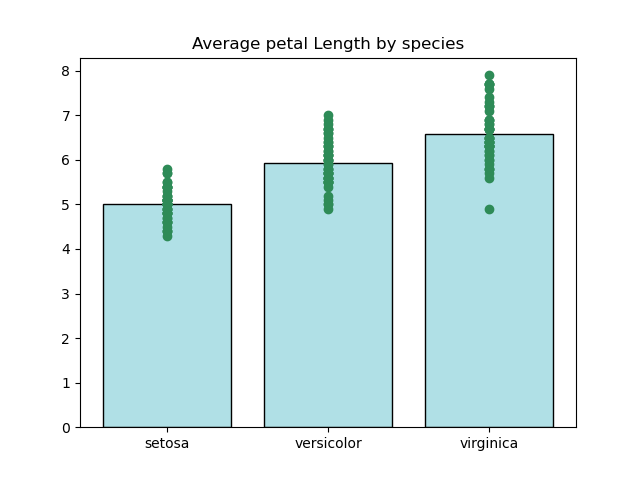
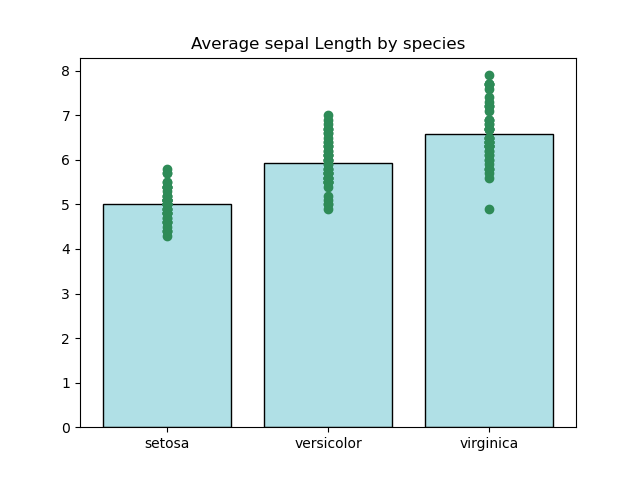
Uploading images to use them in readme

Changed region(s): [[0.2812, 0.0625, 0.7188, 0.125]]

diff --git a/analysis.py b/analysis.py
@@ -11,7 +11,7 @@ import numpy as np
 
 iris_dataset = pd.read_csv("https://raw.githubusercontent.com/mwaskom/seaborn-data/master/iris.csv")
 
-'''
+
 #Adding the print to see a picture of the dataset
 print(iris_dataset)
 
@@ -121,7 +121,9 @@ plt.ylabel('Petal_Width_cm')
 
 plt.show() 
 
-# Aditonal analysis
+
+
+# Aditonal analysis - 
 
 number_of_flowers =iris_dataset["species"].value_counts().plot.bar(color="darkgreen",edgecolor="limegreen")
 number_of_flowers.set_facecolor("snow")
@@ -136,6 +138,7 @@ plt.legend(loc="upper left")
 plt.title("Percentage of flowers per specie")
 
 plt.show()
+
 
 
 flowers_grouped = iris_dataset[['species', 'petal_length']].groupby('species').mean().reset_index()
@@ -163,7 +166,7 @@ plt.show()
 flowers_grouped = iris_dataset[['species', 'sepal_length']].groupby('species').mean().reset_index()
 
 plt.bar(flowers_grouped["species"], flowers_grouped["sepal_length"], color="powderblue",edgecolor="black")
-plt.title('Average petal Length by species')
+plt.title('Average sepal Length by species')
 
 # Adding the scatter plot shows us the range of sepal length of each of the species. 
 plt.scatter(iris_dataset ["species"], iris_dataset[ "sepal_length"], color = "seagreen")
@@ -182,4 +185,3 @@ plt.scatter(iris_dataset ["species"], iris_dataset[ "sepal_width"], color = "sea
 
 plt.show()
 
-'''

diff --git a/README.md b/README.md
@@ -35,6 +35,11 @@ First thing to highlight is that According to **Reference 15**  the 3 species of
 
 ![Where_the_flowers_are](https://oup.silverchair-cdn.com/oup/backfile/Content_public/Journal/jrssig/18/6/10.1111_1740-9713.01589/1/m_sign_18_6_26_fig-2.jpeg?Expires=1718732637&Signature=PhfRbUxedr7JCJwotC34t5gVX1RUNYEvgnEwdMwl-ecTZ0haSxwV77nkcDxmWQPMEcBasdfit4veQhtsqtMM9iRzko7Bi8C3ym3I1T~DIZvyu2W196Br10aLeWhFelxSX7rsiRT20SHiRCzIOLT53b9CylMIkN7tmY92VzTobPHs1GDViQ28K-N4DcBiUBcq7YH4TPtR35fVzvBtEV2WR6aD0Bnkhvf4acShucMPyPEuIf6oj2yIYcTHc1pwzWB5~iIrarOOnEmdEd7EvXLHolnFcPW4-tCSjrojC6lz9Y6YbSk16YQFcZ9ntx3L0DWHniL0GzoA2OT~bBLdJqwIFw__&Key-Pair-Id=APKAIE5G5CRDK6RD3PGA)
 
+Before starting the analysis it is important to see the composition of teh data set. We can see that the number of subjects per specie is the same 50 each.
+
+
+
+
 
 ### Information from Histograms 
 
@@ -76,9 +81,25 @@ The scatter charts provide very interesting information that can be see in below
     * Although virginica is larger than Versicolor, they have many points overlapping **Reference 10**. Thus, it would be difficult to identify flowers using  Sepal Length and width alone. **Reference 13**. **Reference 16** argue that it is not possible to separate flowers using only sepal length.
     * According to **Reference 16** there is weak correlation bewteen sepal lenght and sepal width
 
-### Bar charts, pie chart and combinations
+### Combination of bar charts and scatter plot
 
-![TEST](https://github.com/RobAstur/Pands-Project/blob/main/Average%20Sepal%20Length%20by%20species%20%2B%20scatter%20plot.png)
+This section creates shows 4 different bar charts combined with scatter plots. It combine one of the principel features (petal and sepal sizes) and species. Bar chart calculates the mean and scatter plot add the range of sizes. It provides a very interesting information for analysis. It hlps to confirm and understand the information provided by the previous section
+
+* Petal Length by species - As we have learnt the setosa flowers has smaller petal length and can be easily separated. However in this chart if we analized the scatter plot range it shows that there is a clear overlaping between values 5.5 to 7.0 cms. 
+
+![Petal_Length](https://github.com/RobAstur/Pands-Project/blob/main/Average%20Sepal%20Length%20by%20species%20%2B%20scatter%20plot.png)
+
+* Petal width by species - We have the same situation. Setosa flowers can be completely separated from Versicolor and Virginica. For this 2 values the scatter plot range shows clear overlaping between values 1.5 cm to almost 2 cm.
+
+![Petal_Width](https://github.com/RobAstur/Pands-Project/blob/main/Average%20petal%20width%20by%20species%20%2B%20scatterplot.png)
+
+* Sepal Length by species - in this case there are overlaping between the 3 species. We could potentially separate small small values of setosa flower and highest values of Virginica. Rest of the values are overlaping and it would make impossible to separate the different types of flower
+
+![Sepal_lenght](https://github.com/RobAstur/Pands-Project/blob/main/Average%20Sepal%20Length%20by%20species%20%2B%20scatter%20plot.png)
+
+*Sepal width by species - In this case we could identify the highest values of the setosa flowers.
+
+![Sepal_Width](https://github.com/RobAstur/Pands-Project/blob/main/Average%20Sepal%20Width%20by%20species%20%2B%20scatter%20plot.png)
 
 ###  Other type of charts using referenced work 
 
